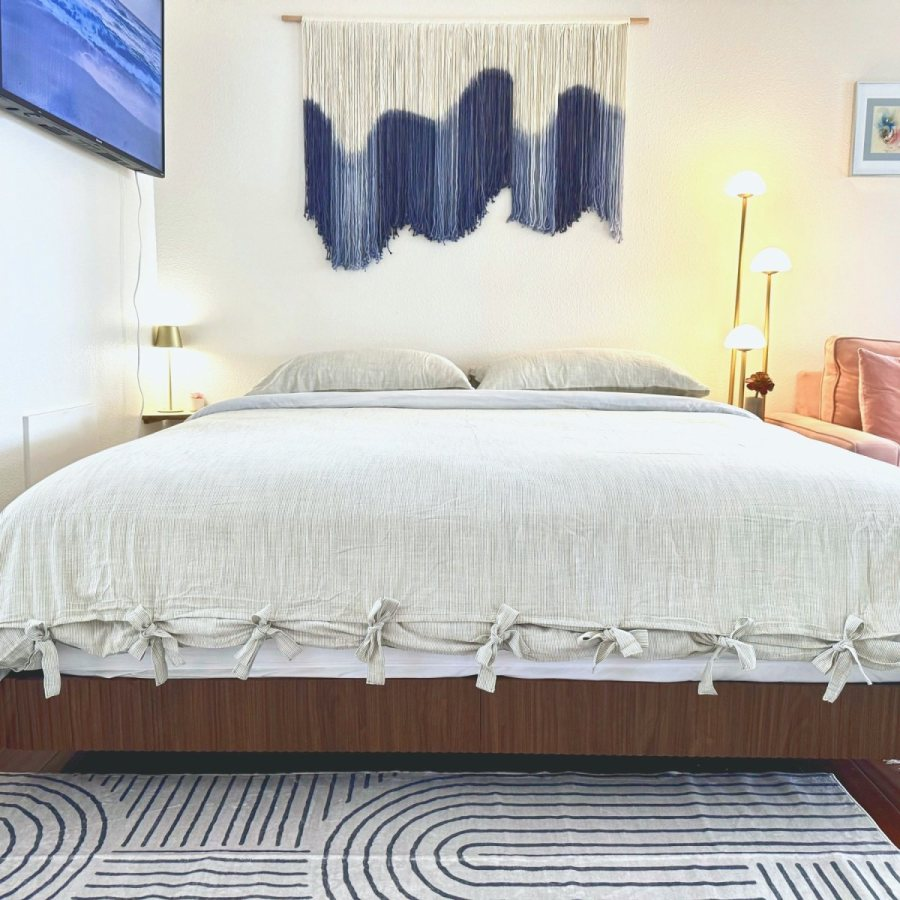
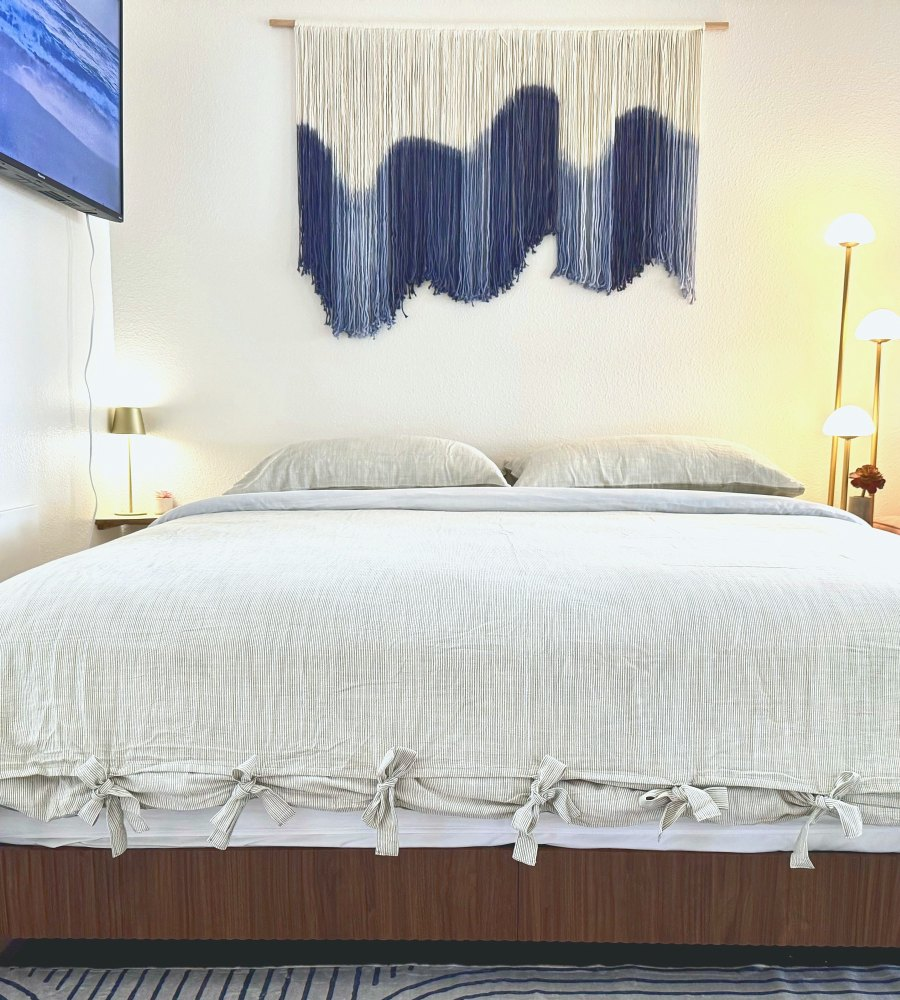
Reframe card photos for Bali, Forest & Ocean, Chic, Dali, Egypt, Om
Claude-Session: https://claude.ai/code/session_012xw2xExUBmuc9fQH3uMMqH

diff --git a/index.html b/index.html
@@ -670,7 +670,7 @@ var PHOTOS = (typeof window!=='undefined' && window.__PHOTOS__) || {};
 LISTINGS.forEach(function(l){
   if(PHOTOS[l.id] && PHOTOS[l.id].length) l.images = PHOTOS[l.id].slice();
   l.images = l.images.map(function(u){ return u.split('?')[0]; });
-  l.card = 'images/cards/'+l.id+'.jpg?v=4';
+  l.card = 'images/cards/'+l.id+'.jpg?v=5';
 });
 function pic(u,w){ return u + '?im_w=' + w; }
 
